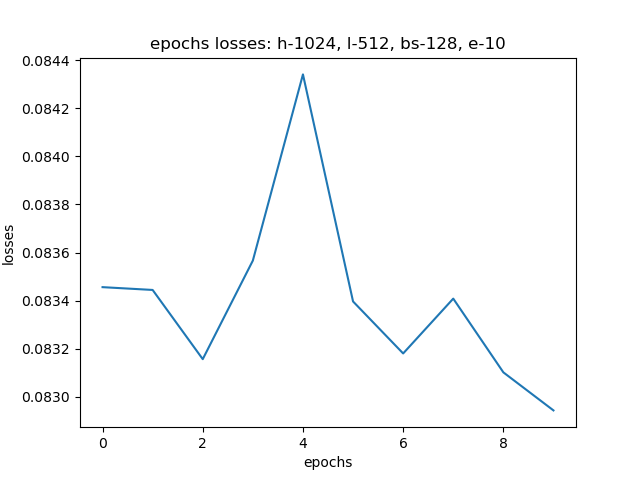
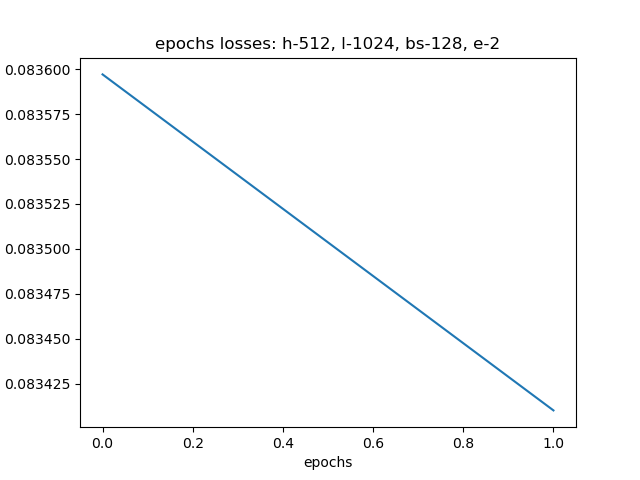
seqvae done

diff --git a/seqvae_train.py b/seqvae_train.py
@@ -4,7 +4,7 @@ from torch.utils.data import DataLoader
 import numpy as np
 import matplotlib.pyplot as plt
 
-from model.coord_dataset import CoordinateDataset
+from utils.coord_dataset import CoordinateDataset
 from model.seqvae import SeqVAE
 from utils.functions import vae_loss
 
@@ -60,19 +60,34 @@ def sampling():
     plt.savefig("sampled_seqs.png")
     plt.close()
 
+# expects np array
+# expected elements: epochs, loss val, recon loss, kl div
+def plot_progress(progress):
+    plt.plot(progress[:, 0], progress[:, 1], label='Total loss', marker='o')
+    plt.plot(progress[:, 0], progress[:, 2], label='Recon loss', marker='o')
+    plt.plot(progress[:, 0], progress[:, 3], label='KL Div', marker='o')
+    
+    plt.xlabel('Epochs')
+    plt.ylabel('Loss')
+    plt.title('Progress')
+    plt.legend()
+    plt.grid(True)
+    
+    plt.savefig("progress.png")
+    plt.close()
 
 
-# ______________________________________________________________
-# Generate Synthetic Data
+# _______________________________________________________________________________________________________
+# Dims for generating random data
 N = 65536  # number of sequences
 T = 50    # sequence length
 M = 2     # features (x,y)
 
 # Hypterparameters
-hidden_dim = 1024
-latent_dim = 512
+hidden_dim = 512
+latent_dim = 1024
 batch_size = 128
-epochs = 10
+epochs = 2
 
 # init model
 device = torch.device('cuda' if torch.cuda.is_available() else 'cpu')
@@ -84,7 +99,9 @@ optimizer = optim.Adam(model.parameters(), lr=1e-3)
 model.train()
 losses = []
 batch_losses = []
+progress = []
 for epoch in range(epochs):
+    # testing with random data
     data = np.random.rand(N, T, M).astype(np.float32)
     dataset = CoordinateDataset(data)
     dataloader = DataLoader(dataset, batch_size=batch_size, shuffle=True, pin_memory=True)
@@ -94,15 +111,17 @@ for epoch in range(epochs):
         
         optimizer.zero_grad()
         out, mean, log_var = model(batch)
-        loss, rl, kl = vae_loss(out, batch, mean, log_var)
+        loss, rl, kl = vae_loss(out, batch, mean, log_var, epoch)
         loss.backward()
         optimizer.step()
         batch_losses.append(loss.item())
     
+    progress.append((epoch+1, loss.item(), rl.item(), kl.item()))
     print(f"Epoch {epoch+1}, Loss: {loss.item():.4f}, Recon: {rl.item():.4f}, KL: {kl.item():.4f}")
     losses.append(loss.item())
 
 # Plotting results
+plot_progress(np.array(progress))
 plot_losses(hidden_dim, latent_dim, epochs, losses, batch_losses)
 sampling()
 

diff --git a/utils/functions.py b/utils/functions.py
@@ -3,7 +3,9 @@ import torch
 # -----------------------
 # Loss function for VAE
 # -----------------------
-def vae_loss(recon, x, mean, log_var):
+def vae_loss(recon, x, mean, log_var, epoch):
     recon_loss = ((recon - x)**2).mean()
     kl_div = -0.5 * torch.mean(1 + log_var - mean.pow(2) - log_var.exp())
-    return recon_loss + 0 * kl_div, recon_loss, kl_div
+    # if epoch < 50:
+    #     return recon_loss + 0 * kl_div, recon_loss, kl_div
+    return recon_loss + 0.01 * kl_div, recon_loss, kl_div
